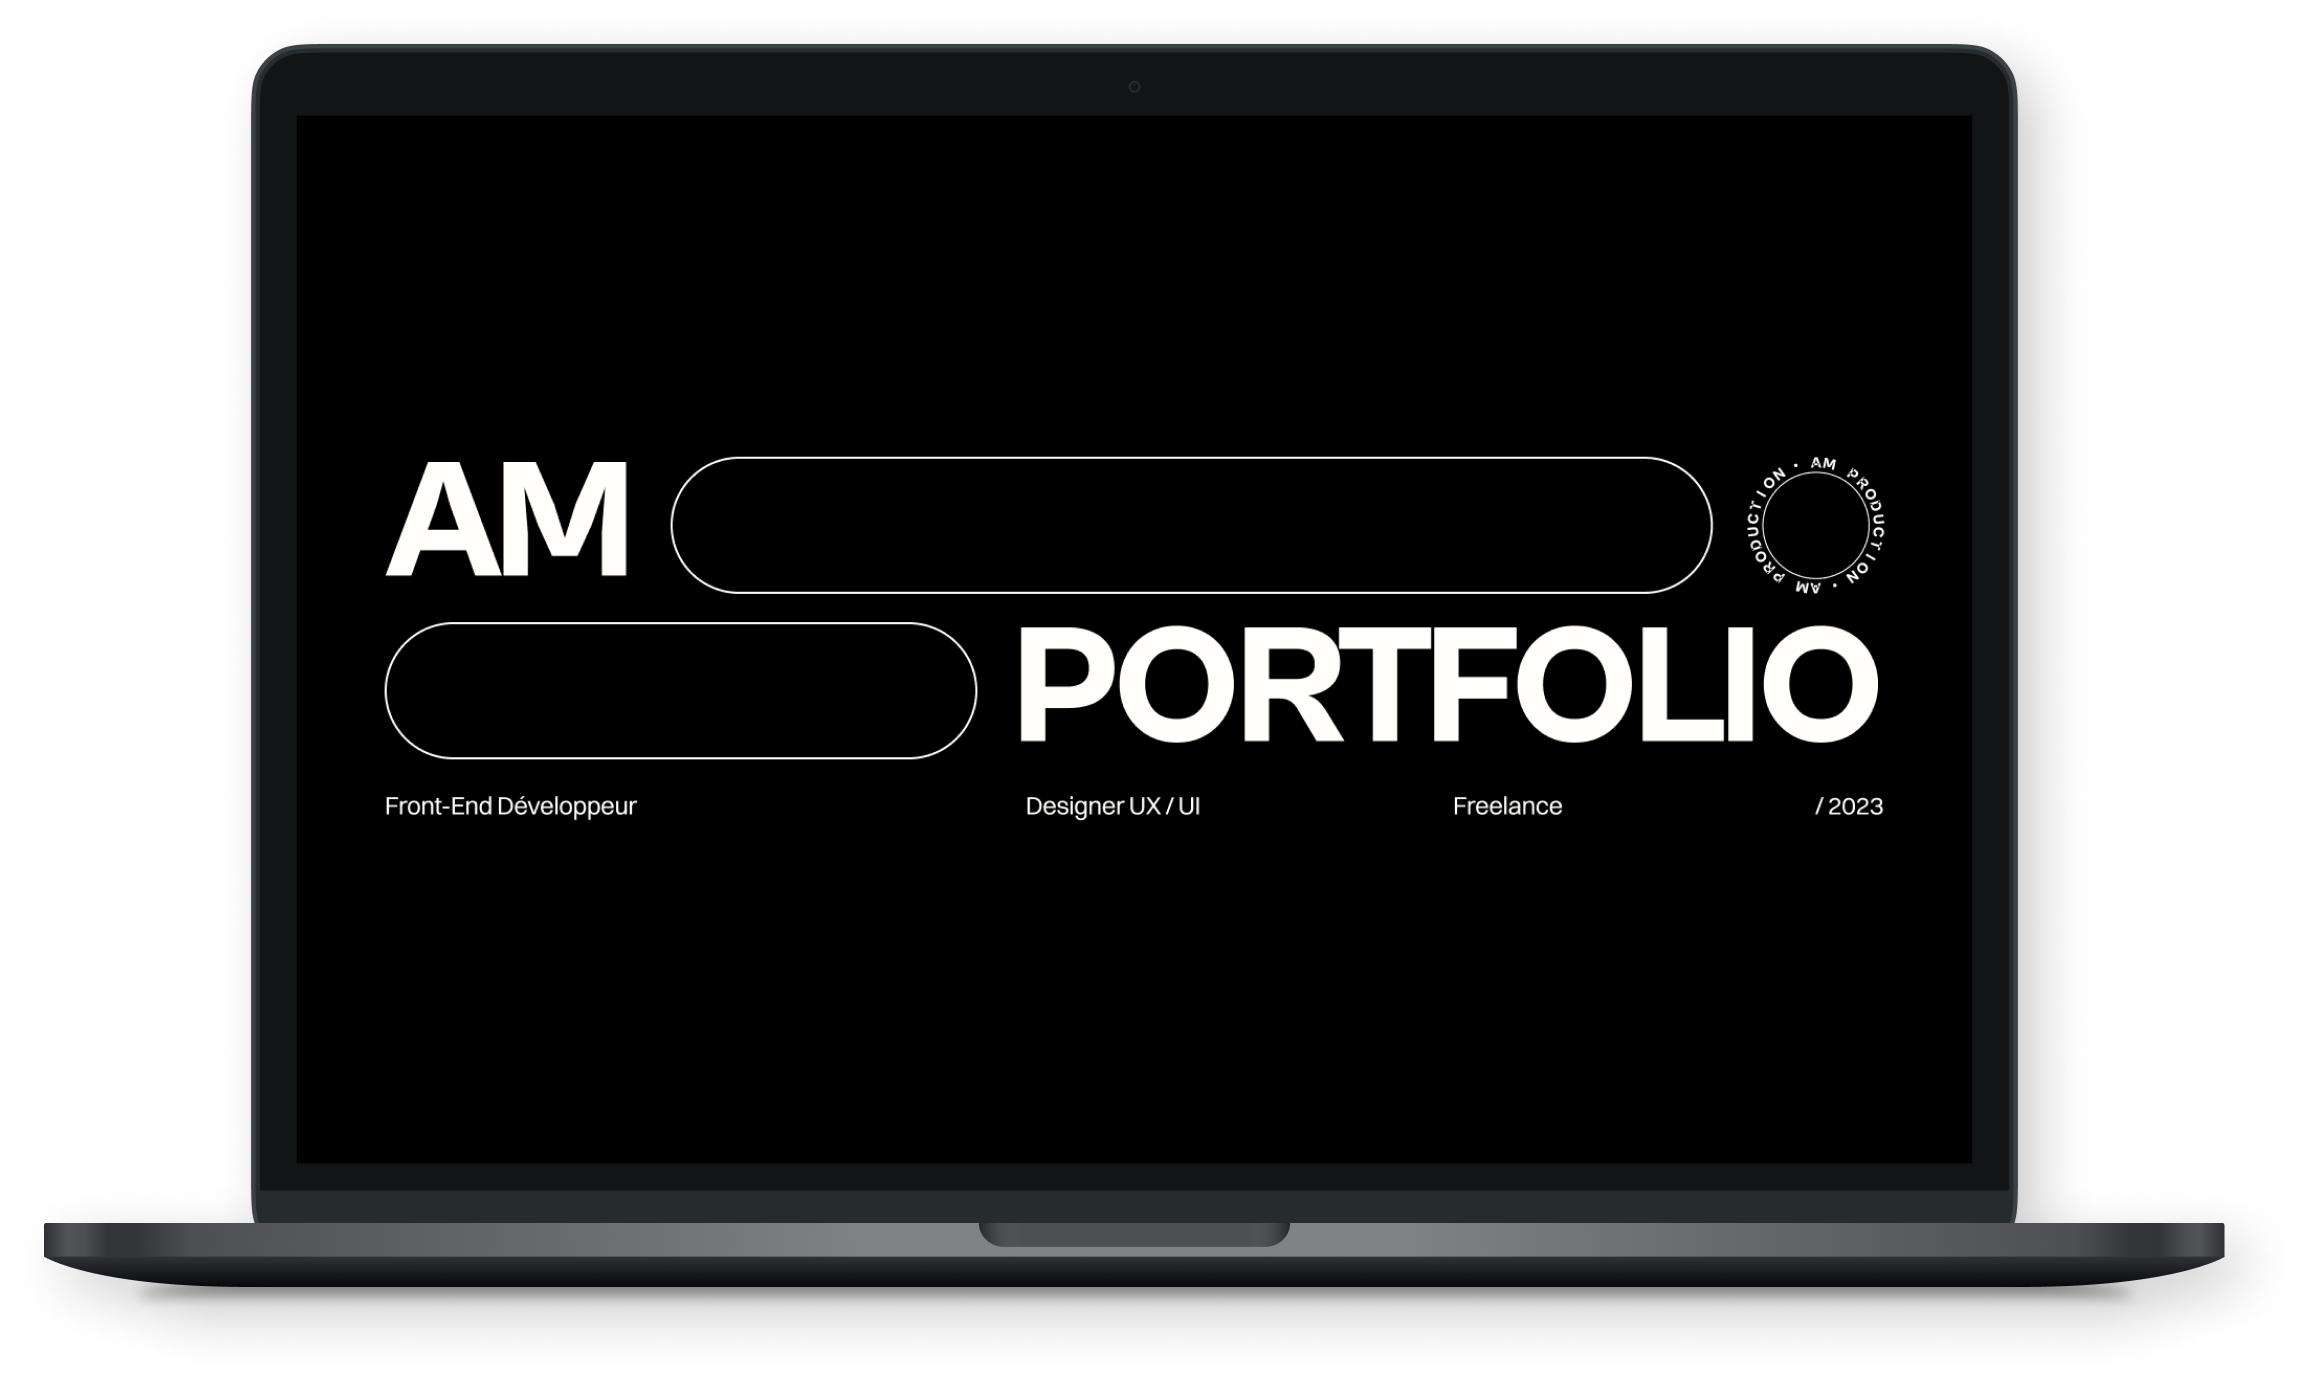
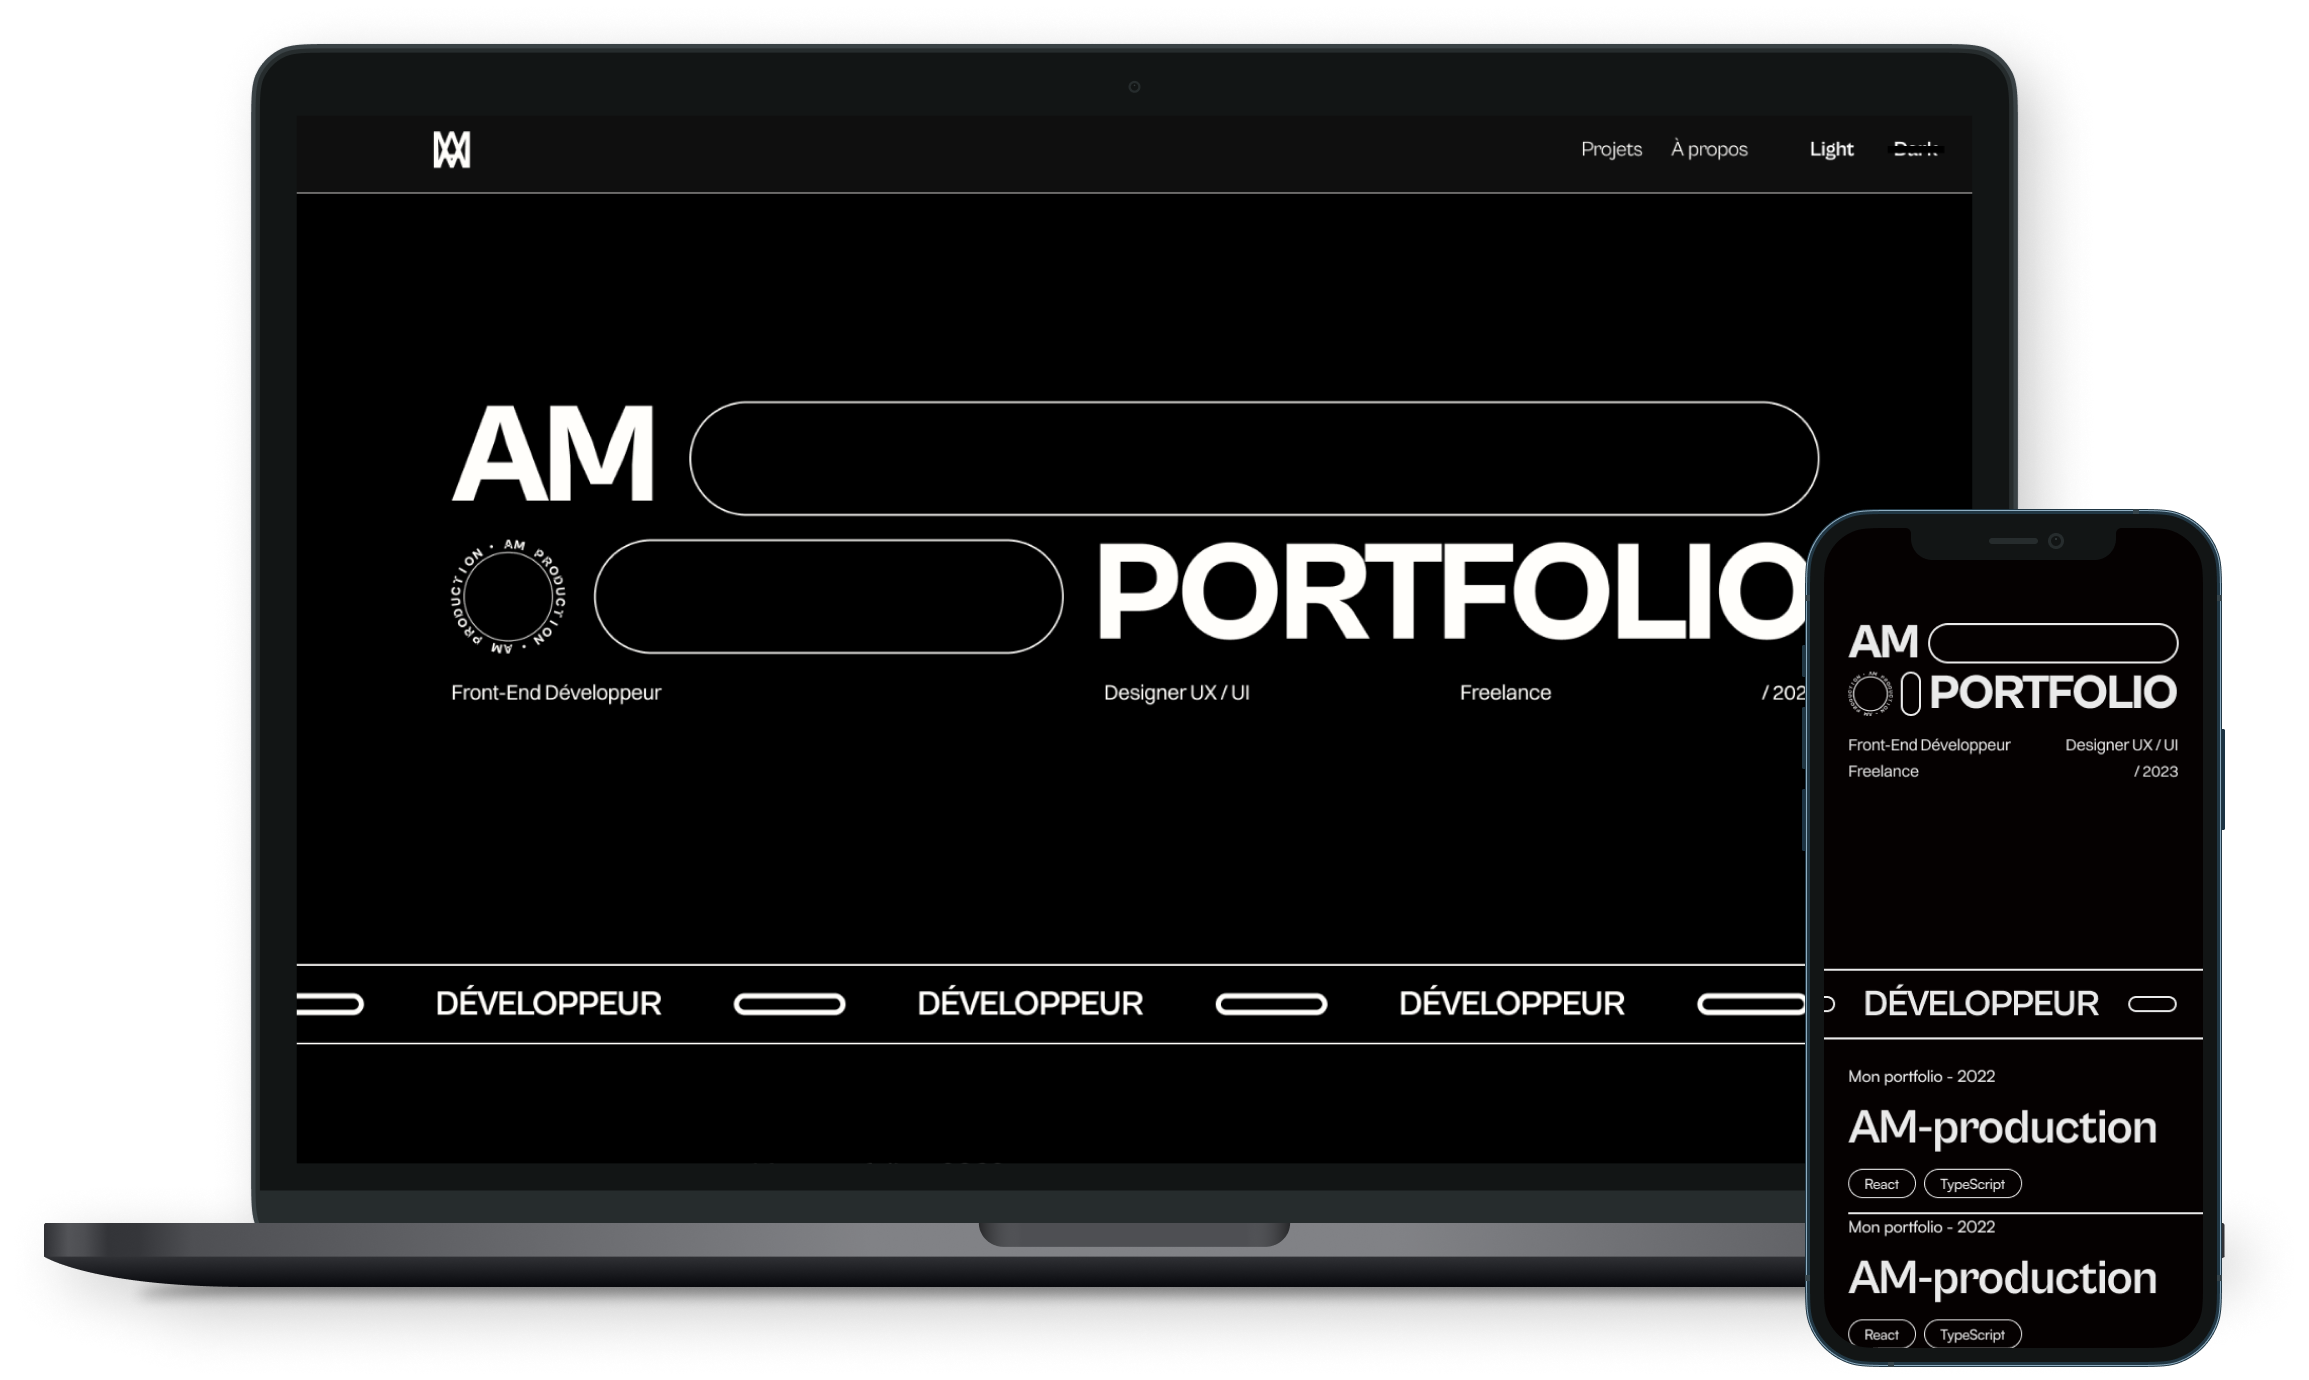
bug switch page and change data project description

diff --git a/src/components/ProjectContent.tsx b/src/components/ProjectContent.tsx
@@ -5,7 +5,20 @@ import Logo from "../components/Logo";
 
 import Projects from '../data/dataProject.json';
 
+interface Props {
+  id: number;
+  role: string[];
+}
+
+const getProjectByRole = () => {
+  return Object.values(Projects).filter((project: Props) => {
+    return project.role.includes('développeur');
+  });
+};
+
 const ProjectContent: React.FC = () => {
+  const allDevelopperProject = getProjectByRole();
+
   return (
     <section>
       <div className="project">
@@ -16,7 +29,7 @@ const ProjectContent: React.FC = () => {
           </div>
         </div>
         <div className="project__content">
-          {Object.values(Projects).map((project) => (
+          {Object.values(allDevelopperProject).map((project) => (
             <NavProject key={project.id} project={project} />
           ))}
         </div>

diff --git a/src/components/SwitchPage.tsx b/src/components/SwitchPage.tsx
@@ -9,12 +9,20 @@ interface Props {
 const SwitchPage: React.FC<Props> = ({ children }) => {
   const [canScroll, setCanScroll] = React.useState(true);
   const location = useLocation();
+  const isFirstTime = React.useRef(true);
 
   React.useEffect(() => {
-    if (canScroll) {
-      setCanScroll(false);
+    if (isFirstTime.current) {
       setTimeout(() => {
         setCanScroll(true);
+        isFirstTime.current = false;
+      }, 2000);
+    } else {
+      setCanScroll(false);
+      setTimeout(() => {
+        console.log("can scroll");
+        setCanScroll(true);
+        isFirstTime.current = false;
       }, 2000);
     }
   }, [location]);

diff --git a/src/views/About.tsx b/src/views/About.tsx
@@ -65,7 +65,7 @@ const About: React.FC = () => {
                 <p>Figma</p>
               </div>
             </div>
-            <div className="about--row">
+              <div className="about--row">
               <h3>Contact</h3>
               <div>
                 <p>Twitter : <a className="linkAbout cursorHover" href="https://twitter.com/amlds_ma" target="_blank" rel="noreferrer">@amlds_ma</a></p>

diff --git a/src/components/Header.tsx b/src/components/Header.tsx
@@ -40,7 +40,7 @@ const Header: React.FC = () => {
 
   return (
     <header className={`header ${isHeaderHidden ? "header--hid" : ""}`}>
-      <Link to="/" onClick={scrollToTop} className='cursorHover'>
+      <Link to="/" onClick={scrollToTop}>
         <Logo />
       </Link>
       <nav className="navComputer">

diff --git a/src/assets/components/_buttons.scss b/src/assets/components/_buttons.scss
@@ -192,6 +192,7 @@ input[type="checkbox"] {
   display: flex;
   gap: 16px;
   align-items: center;
+  width: fit-content;
   p {
     display: inline-block;
     position: relative;
